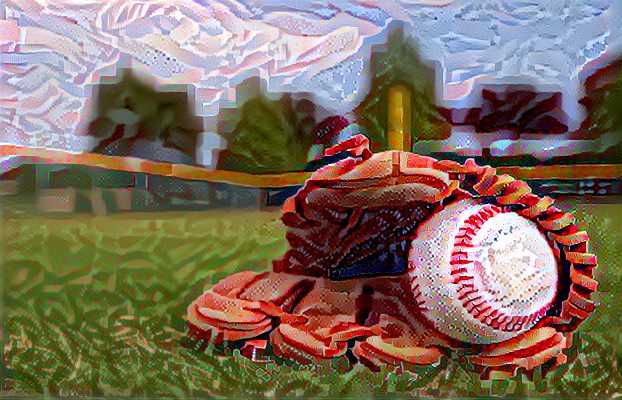
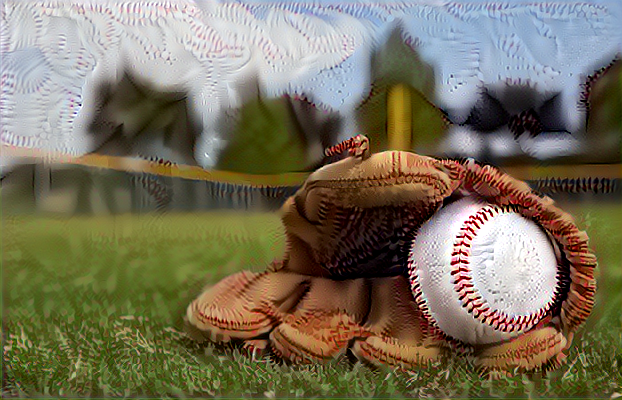
Testing images

diff --git a/neural-style-transfer.py b/neural-style-transfer.py
@@ -114,7 +114,7 @@ while keep_running:
         target_image_path = BytesIO(response.content)
 
         # This is the path to the style image.
-        style_reference_image_path = '.\\images\\baseball_stiches.jpg'
+        style_reference_image_path = '.\\images\\baseballs.jpg'
 
         # Create the output image path
         url = str(url)
@@ -214,4 +214,4 @@ while keep_running:
         imsave(output_image_path + output_image_name, img)
         saveToBlob(output_image_name, output_image_path + output_image_name)
 
-        queue_service.delete_message(queue_name, message.id, message.pop_receipt)
+        #queue_service.delete_message(queue_name, message.id, message.pop_receipt)
